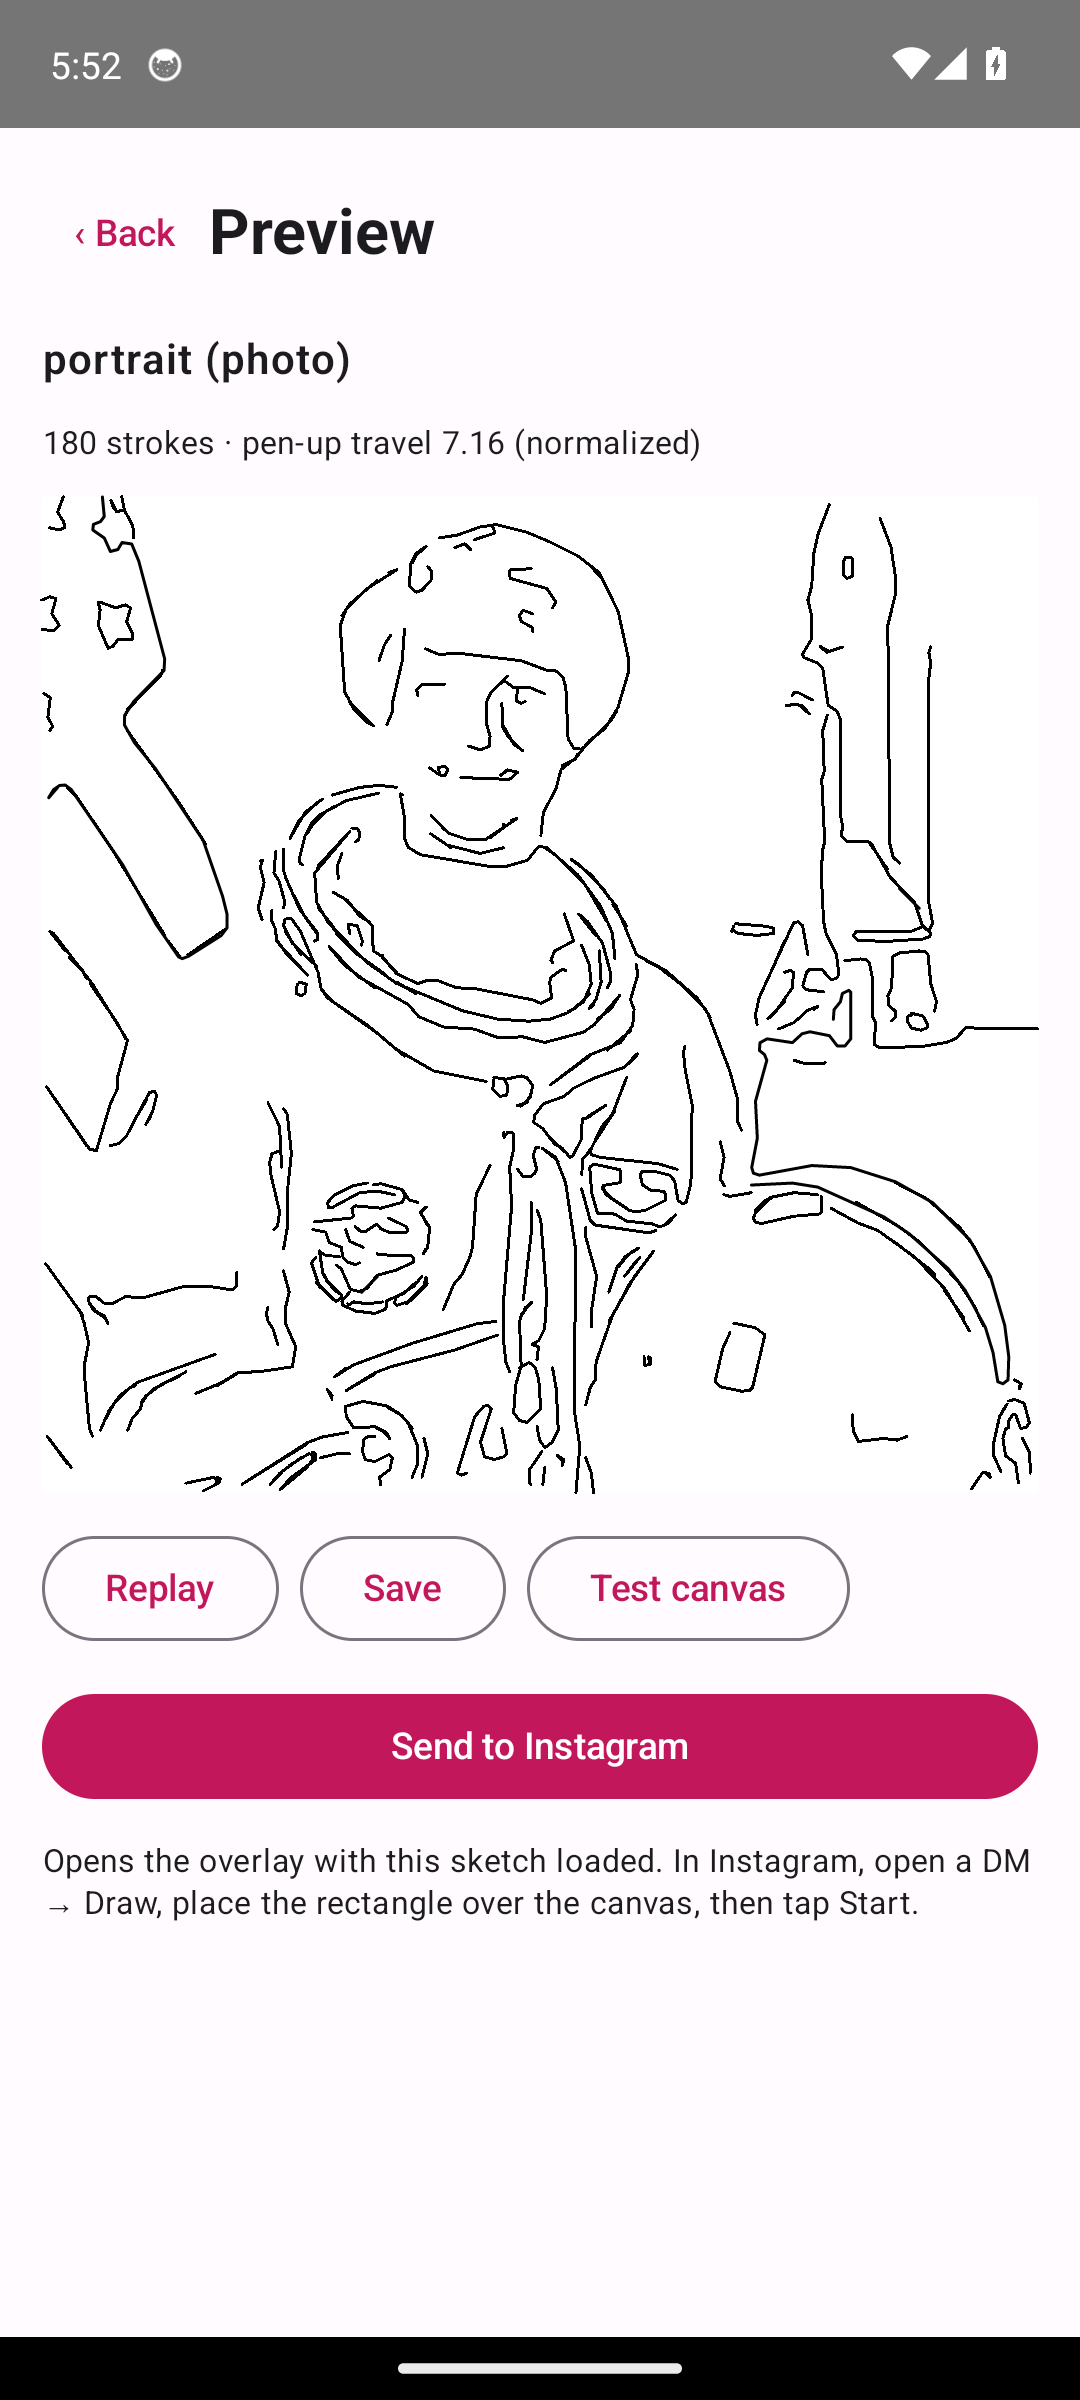
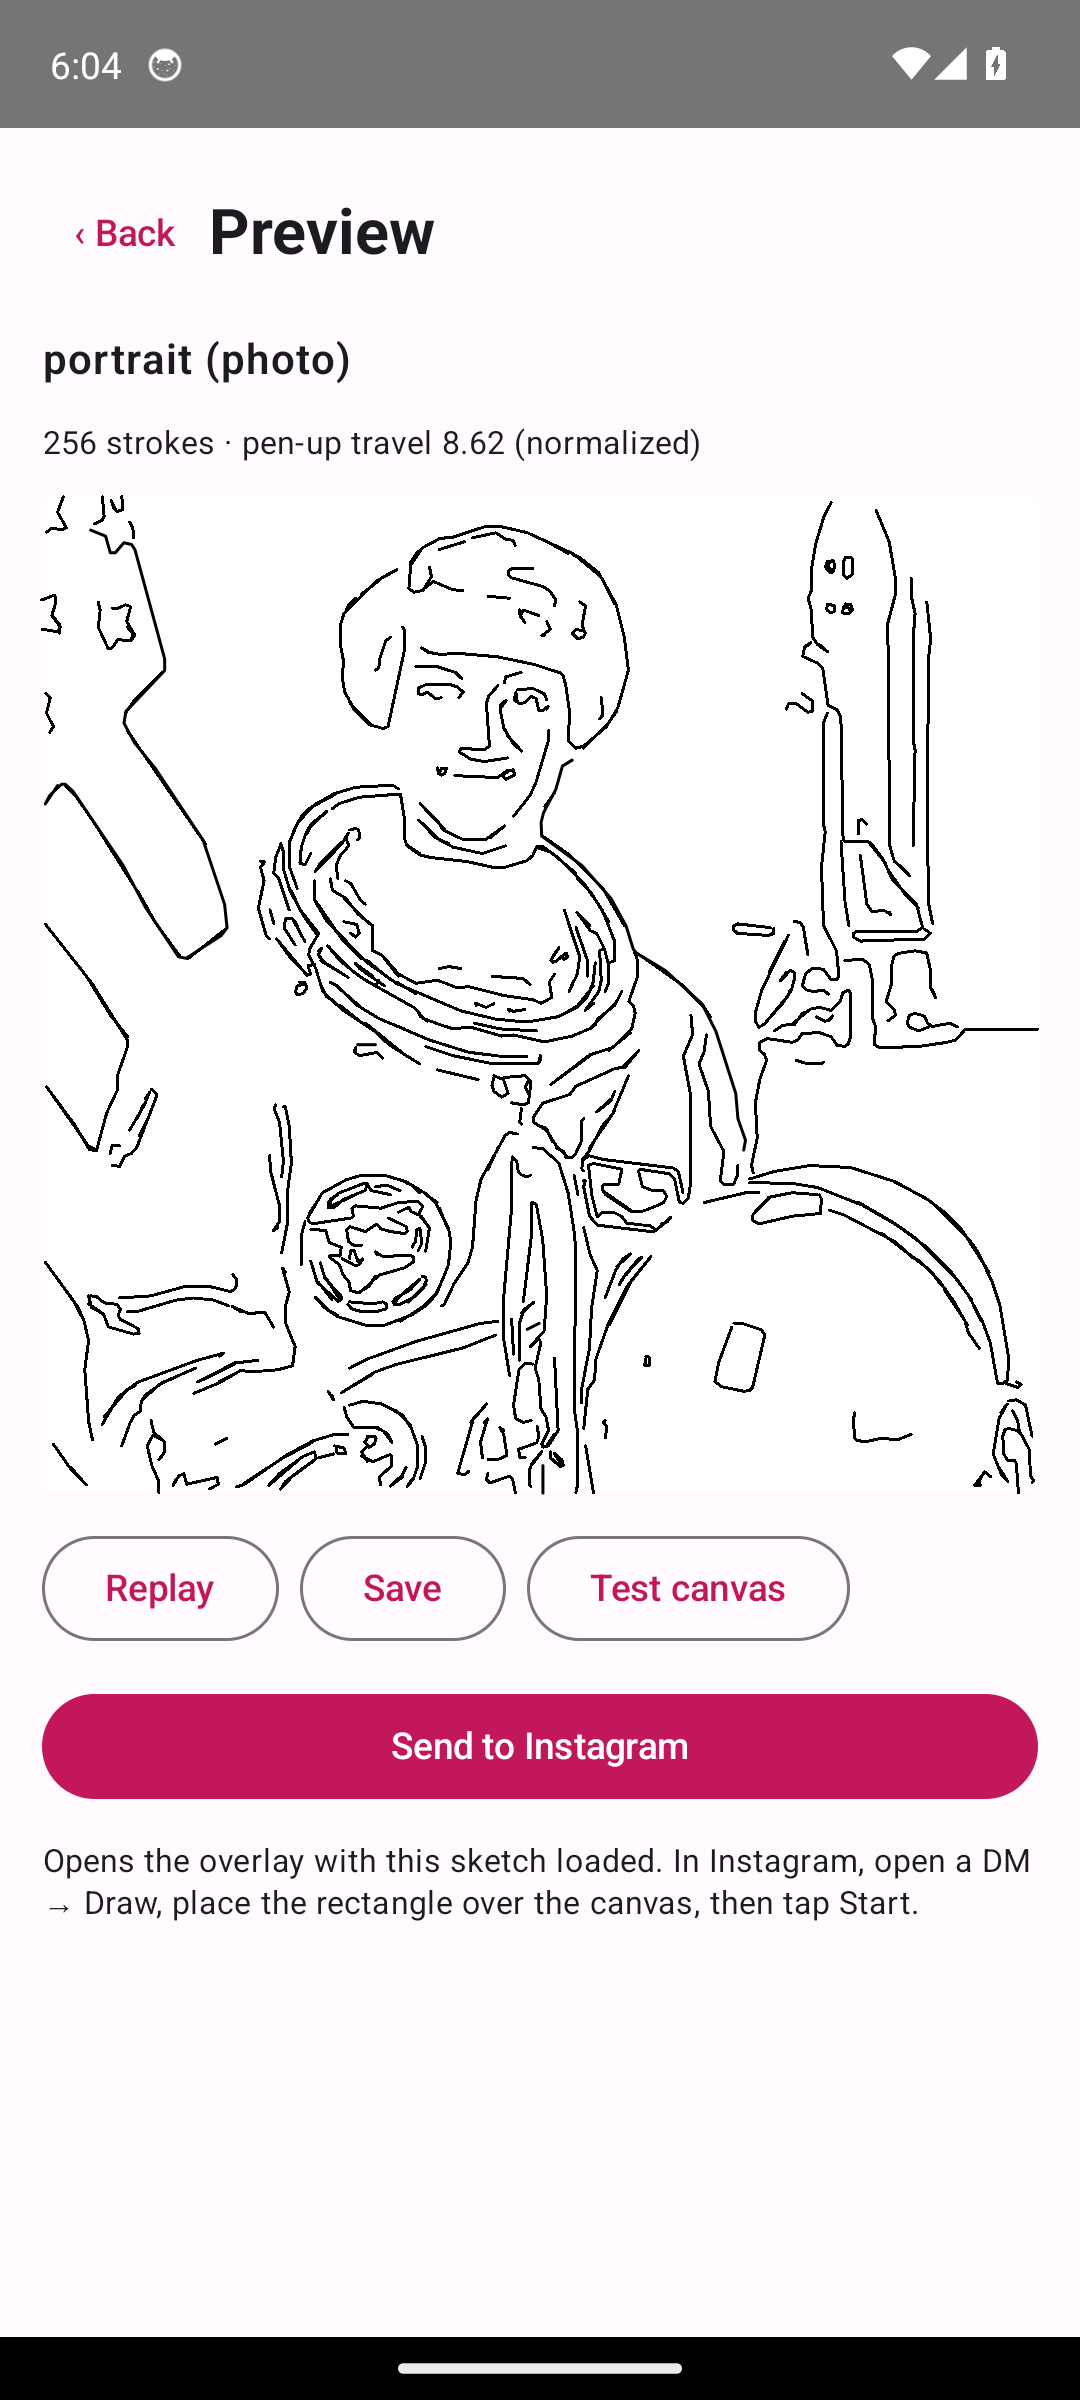
feat: more detailed sketches (up to 1000 strokes, 1024 px processing)

diff --git a/app/src/main/java/com/instadoodle/ui/Screens.kt b/app/src/main/java/com/instadoodle/ui/Screens.kt
@@ -153,7 +153,7 @@ fun HomeScreen(state: UiState, serviceRunning: Boolean, vm: MainViewModel) {
                     }
                 }
                 LabeledSlider("Detail level", state.detail, 0f..1f, "${(state.detail * 100).roundToInt()}%") { vm.setDetail(it) }
-                LabeledSlider("Max strokes", state.maxStrokes.toFloat(), 20f..500f, "${state.maxStrokes}") { vm.setMaxStrokes(it.roundToInt()) }
+                LabeledSlider("Max strokes", state.maxStrokes.toFloat(), 20f..1000f, "${state.maxStrokes}") { vm.setMaxStrokes(it.roundToInt()) }
             }
         }
         Button(onClick = vm::generate, enabled = !state.processing && state.sourceBitmap != null, modifier = Modifier.fillMaxWidth()) {

diff --git a/app/src/main/java/com/instadoodle/engine/ImagePreprocessor.kt b/app/src/main/java/com/instadoodle/engine/ImagePreprocessor.kt
@@ -48,8 +48,8 @@ object ImagePreprocessor {
         val smooth = mat()
         Imgproc.bilateralFilter(gray, smooth, 9, 50.0, 50.0)
         val blurred = mat()
-        Imgproc.GaussianBlur(smooth, blurred, Size(0.0, 0.0), 1.0 + (1.0 - detail) * 1.5)
-        val low = maxOf(10.0, (0.66 - 0.3 * detail) * median(blurred) * 0.5)
+        Imgproc.GaussianBlur(smooth, blurred, Size(0.0, 0.0), 0.7 + (1.0 - detail) * 1.8)
+        val low = maxOf(6.0, (0.5 - 0.38 * detail) * median(blurred))
         val edges = mat()
         Imgproc.Canny(blurred, edges, low, low * 2.5, 3, true)
         return edges

diff --git a/app/src/main/java/com/instadoodle/ui/MainViewModel.kt b/app/src/main/java/com/instadoodle/ui/MainViewModel.kt
@@ -32,8 +32,8 @@ data class UiState(
     val sourceName: String? = null,
     val sourceBitmap: Bitmap? = null,
     val mode: SketchMode = SketchMode.PHOTO,
-    val detail: Float = 0.5f,
-    val maxStrokes: Int = 250,
+    val detail: Float = 0.7f,
+    val maxStrokes: Int = 400,
     val processing: Boolean = false,
     val error: String? = null,
     val sketchName: String = "",

diff --git a/app/src/main/java/com/instadoodle/engine/Stroke.kt b/app/src/main/java/com/instadoodle/engine/Stroke.kt
@@ -51,7 +51,7 @@ data class EngineConfig(
     val twoOptPasses: Int = 2,
 ) {
     companion object {
-        const val MAX_WORKING_SIDE = 512
+        const val MAX_WORKING_SIDE = 1024
     }
 }
 

diff --git a/CHANGELOG.md b/CHANGELOG.md
@@ -14,6 +14,13 @@ Record each meaningful project change during the event, newest first. Update thi
 
 ## Event build log
 
+## 2026-10-24T23:35:30+05:30 — More detailed sketches, higher stroke limit
+
+- Changed: Max strokes slider 20–500 → 20–1000 and default 250 → 400; default Detail 50% → 70%; working resolution 512 → 1024 px (`EngineConfig.MAX_WORKING_SIDE`; only downscales, so large gallery photos keep more detail); PHOTO Canny uses less blur and lower thresholds as Detail rises (`ImagePreprocessor.photoLines`); version 1.0.3.
+- Why: User asked for more detailed doodles with more strokes.
+- Validation: `./gradlew testDebugUnitTest assembleDebug` pass; `./gradlew connectedDebugAndroidTest` 4/4 pass; on the emulator the portrait sample gives 256 strokes at the new defaults (was 180) and 478 at Detail 100% / Max 1000 (`docs/screenshots/09-preview-portrait.png`).
+- Limitations: More strokes means proportionally longer replay on Instagram; high Detail adds texture lines on busy photos. Instagram not tested.
+
 ## 2026-10-24T23:23:03+05:30 — More accurate sketches (PHOTO edges, noise and spur cleanup)
 
 - Changed: PHOTO mode in `ImagePreprocessor` now uses Canny edges (bilateral + Gaussian smoothing, median-based thresholds) instead of thresholded DoG; new `Cleanup` removes ink specks before thinning, prunes short skeleton spurs, and smooths pixel staircase before simplification (`StrokeExtractor`, `EngineConfig`); simplify epsilon 1.2 → 0.8 px; minimum stroke length at 50% detail 12 → 9 px; added `AccuracyTest`; refreshed preview screenshots; version 1.0.2.

diff --git a/AI_USAGE.md b/AI_USAGE.md
@@ -9,6 +9,7 @@ If maintaining this record, briefly document the actual contributions of whichev
 | 2026-10-24T21:39+05:30 | Devin (Cognition AI) | Milestones 0–2: Gradle project, CI, accessibility overlay + gesture player, image-to-strokes engine, Compose UI, storage, sample images, unit tests | Wrote all files under `app/`, `.github/workflows/`, Gradle files | Pending | `assembleDebug` and `testDebugUnitTest` pass; APK launched on API 34 emulator |
 | 2026-10-24T21:46+05:30 | Devin (Cognition AI) | Milestones 3–4: emulator verification, two overlay fixes, instrumented tests, README/PROGRESS/checklist/screenshots | `overlay/GesturePlayer.kt`, `overlay/OverlayController.kt`, `app/src/androidTest/`, docs | Pending | `connectedDebugAndroidTest` 4/4 pass; test-canvas replay with pause/stop/calibrate verified manually on emulator; Instagram not tested |
 | 2026-10-24T23:23+05:30 | Devin (Cognition AI) | Sketch accuracy: Canny PHOTO edges, speck/spur cleanup, smoothing, accuracy test | `engine/ImagePreprocessor.kt`, `engine/Cleanup.kt`, `engine/StrokeExtractor.kt`, `engine/Stroke.kt`, `ui/MainViewModel.kt`, `AccuracyTest.kt` | Pending | Unit + instrumented tests pass; portrait preview checked on emulator |
+| 2026-10-24T23:35+05:30 | Devin (Cognition AI) | More detail: stroke limit up to 1000, 1024 px working size, Detail-driven Canny thresholds | `engine/Stroke.kt`, `engine/ImagePreprocessor.kt`, `ui/MainViewModel.kt`, `ui/Screens.kt`, `README.md` | Pending | Unit + instrumented tests pass; portrait 180 → 256 strokes at defaults on emulator |
 
 ## Template preparation
 

diff --git a/README.md b/README.md
@@ -19,10 +19,10 @@ More in [docs/screenshots](docs/screenshots).
 
 ## Features
 
-- **Image → strokes engine**: Photo Picker or bundled samples; PHOTO (difference-of-Gaussians
+- **Image → strokes engine**: Photo Picker or bundled samples; PHOTO (Canny
   edges) and LINE_ART (Otsu threshold) modes; Zhang-Suen thinning, skeleton tracing,
   Ramer-Douglas-Peucker simplification, endpoint merging, short-stroke removal, a stroke cap
-  (default 250), and greedy nearest-neighbour ordering with stroke reversal plus 2-opt to cut
+  (default 400, up to 1000), and greedy nearest-neighbour ordering with stroke reversal plus 2-opt to cut
   pen-up travel. Output points are normalised to `[0,1]`.
 - **Preview**: animated replay of the strokes, stroke count and pen-up travel.
 - **Library**: sketches saved as JSON in app-private storage.
@@ -51,7 +51,7 @@ flowchart LR
     end
     VM[MainViewModel<br/>StateFlow]
     subgraph Engine["engine/"]
-        Loader[ImageLoader<br/>EXIF, downsample] --> Pre[ImagePreprocessor<br/>OpenCV: resize 512, denoise,<br/>Canny / Otsu]
+        Loader[ImageLoader<br/>EXIF, downsample] --> Pre[ImagePreprocessor<br/>OpenCV: resize 1024, denoise,<br/>Canny / Otsu]
         Pre --> Extract[StrokeExtractor<br/>thin → trace → merge →<br/>simplify → filter → normalise → order]
     end
     subgraph Data["data/"]

diff --git a/PROGRESS.md b/PROGRESS.md
@@ -33,6 +33,10 @@ real Instagram app; see [docs/INSTAGRAM_TEST_CHECKLIST.md](docs/INSTAGRAM_TEST_C
 
 PHOTO mode switched from thresholded DoG to Canny edges, plus speck removal, spur pruning and stroke smoothing. The portrait sample previously lost the face (DoG blobs thinned to dots); it now keeps eyes, nose, mouth and chin (`docs/screenshots/09-preview-portrait.png`). `AccuracyTest` checks strokes stay within 2 px of the cleaned source lines.
 
+## Detail update (v1.0.3)
+
+Max strokes now goes up to 1000 (default 400), default Detail is 70%, and images are processed at up to 1024 px. Portrait sample: 256 strokes at defaults, 478 at Detail 100% / Max 1000.
+
 ## Known limitations
 
 - Instagram compatibility is unknown. Instagram may change its UI, ignore injected gestures, or
